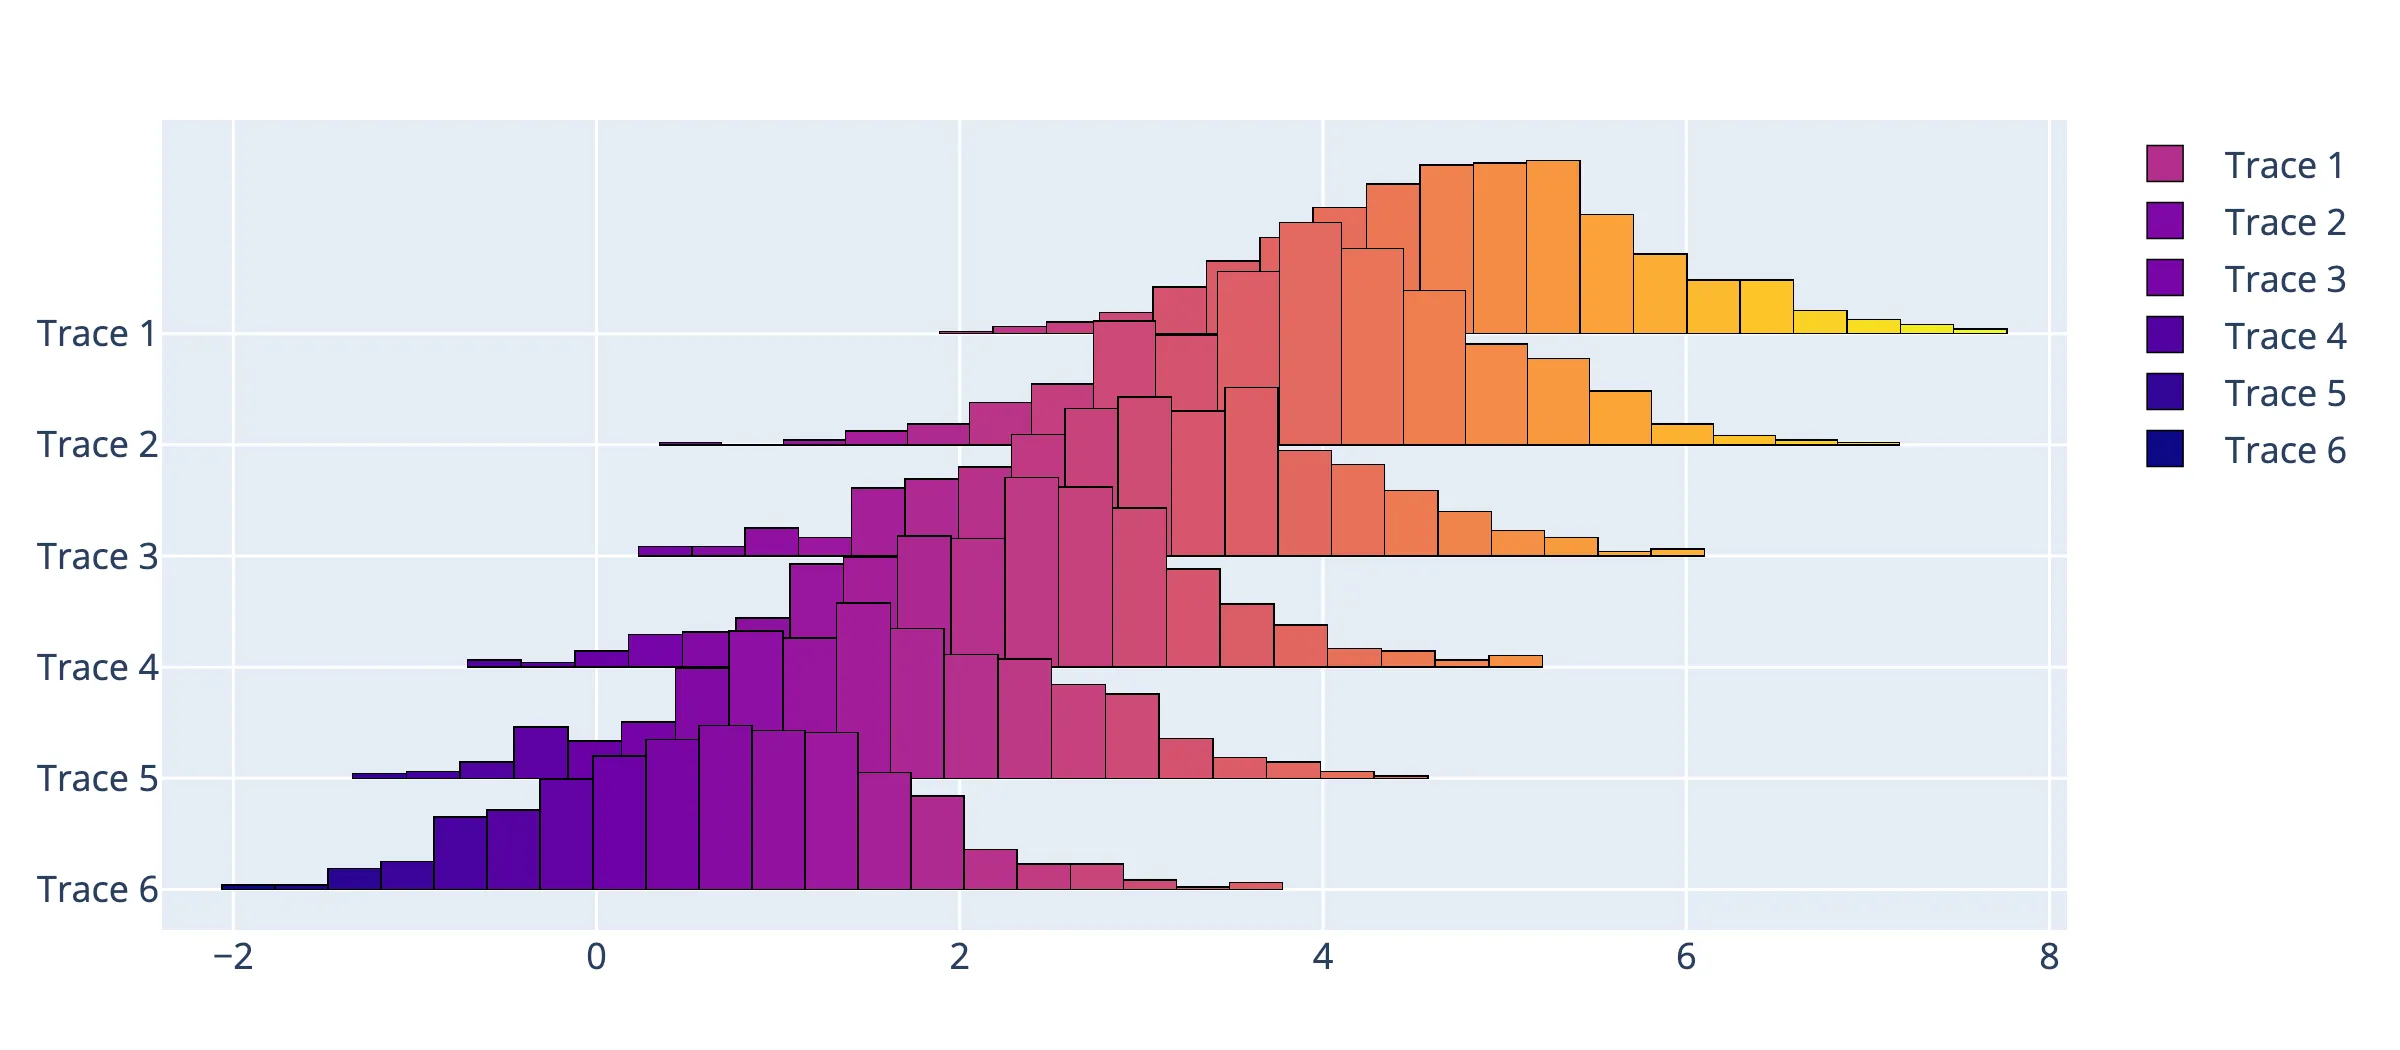
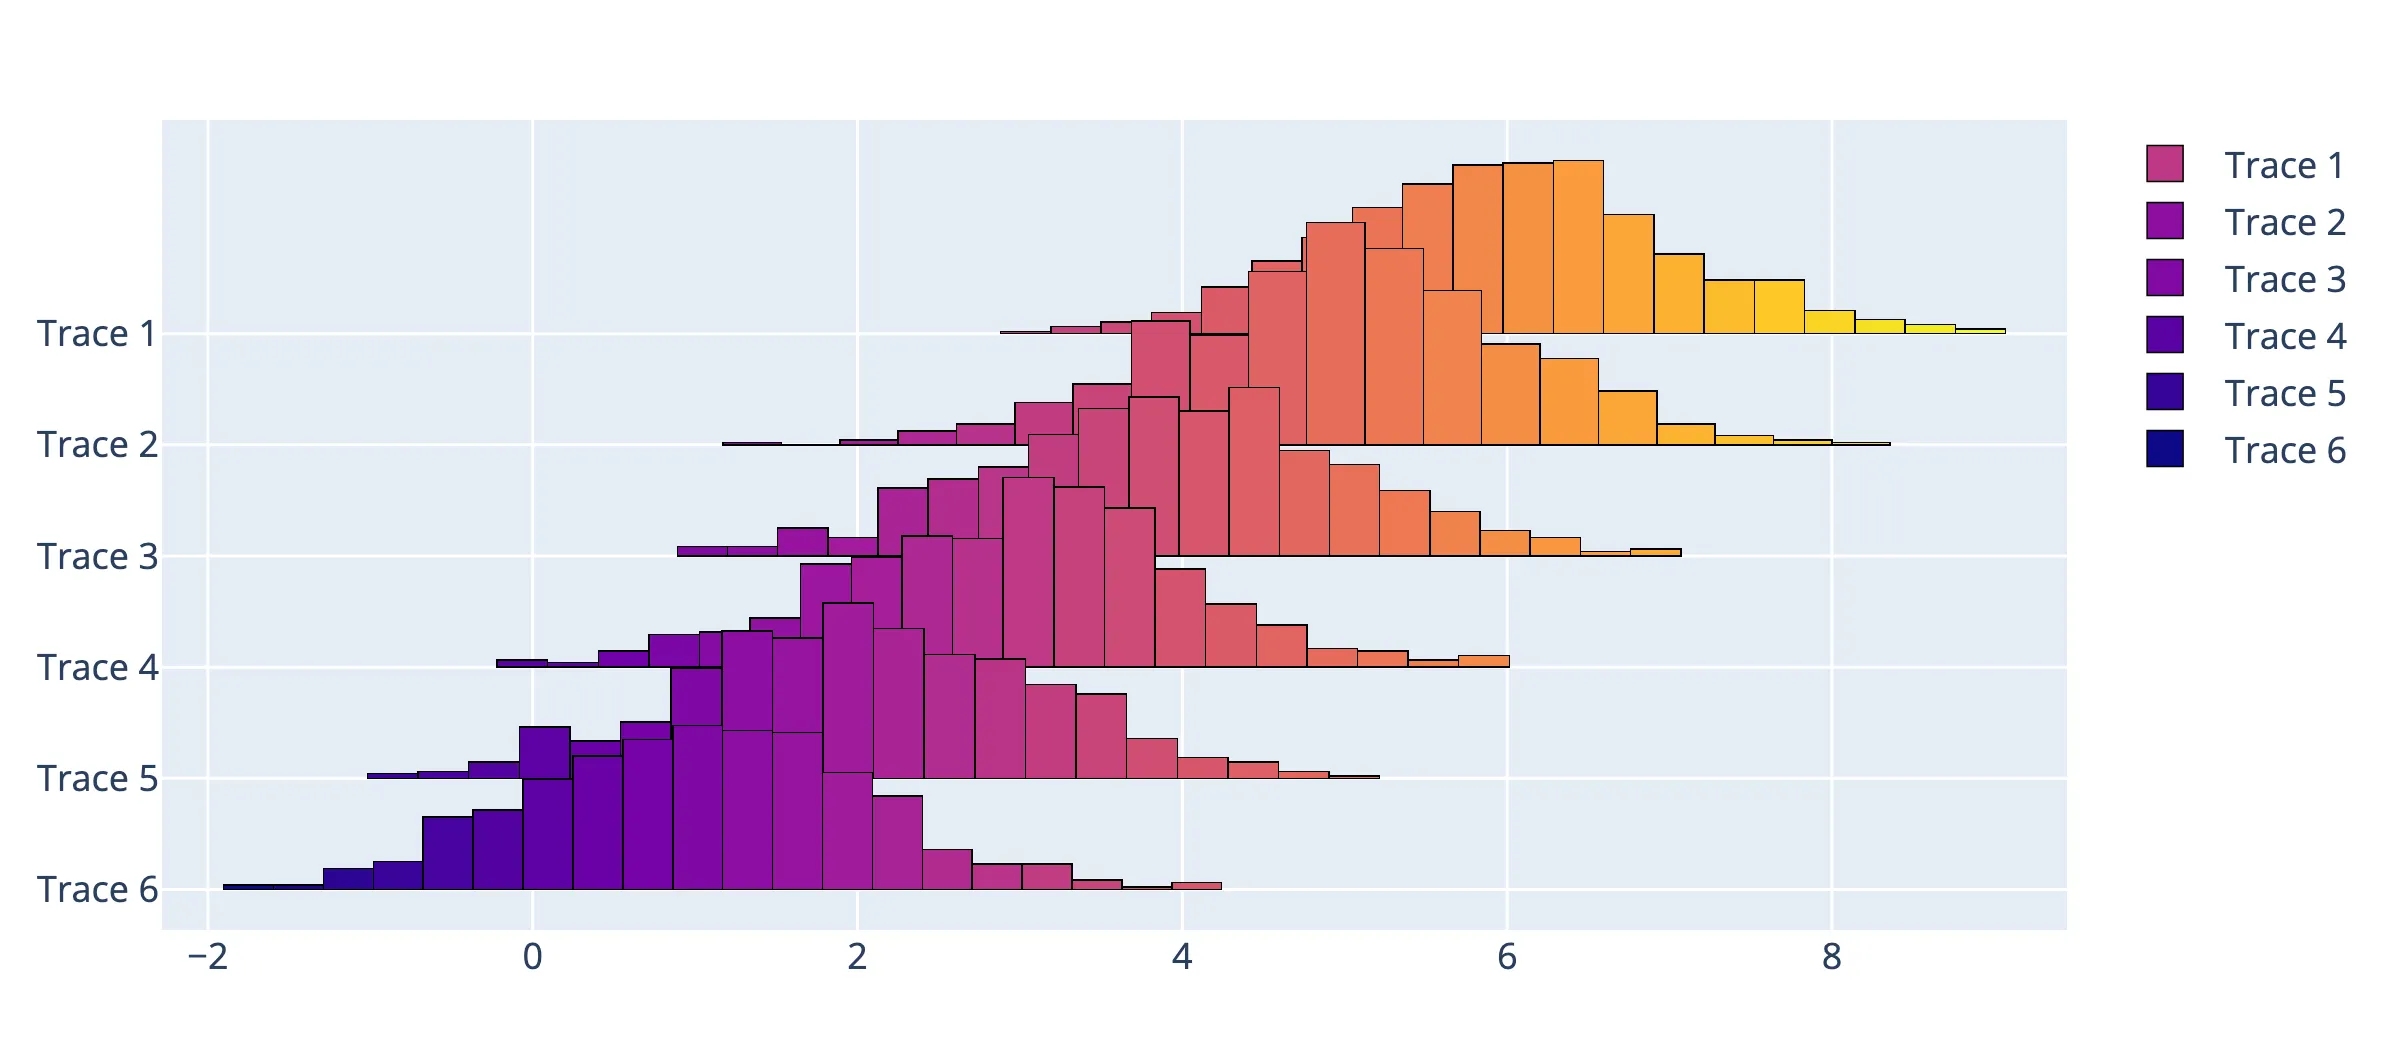
Update basic hist example

diff --git a/cicd_utils/ridgeplot_examples/_basic_hist.py b/cicd_utils/ridgeplot_examples/_basic_hist.py
@@ -12,7 +12,7 @@ def main() -> go.Figure:
     from ridgeplot import ridgeplot
 
     rng = np.random.default_rng(42)
-    my_samples = [rng.normal(n / 1.2, size=600) for n in range(6, 0, -1)]
+    my_samples = [rng.normal(n, size=600) for n in range(6, 0, -1)]
     fig = ridgeplot(samples=my_samples, nbins=20)
     fig.update_layout(height=350, width=800)
 
